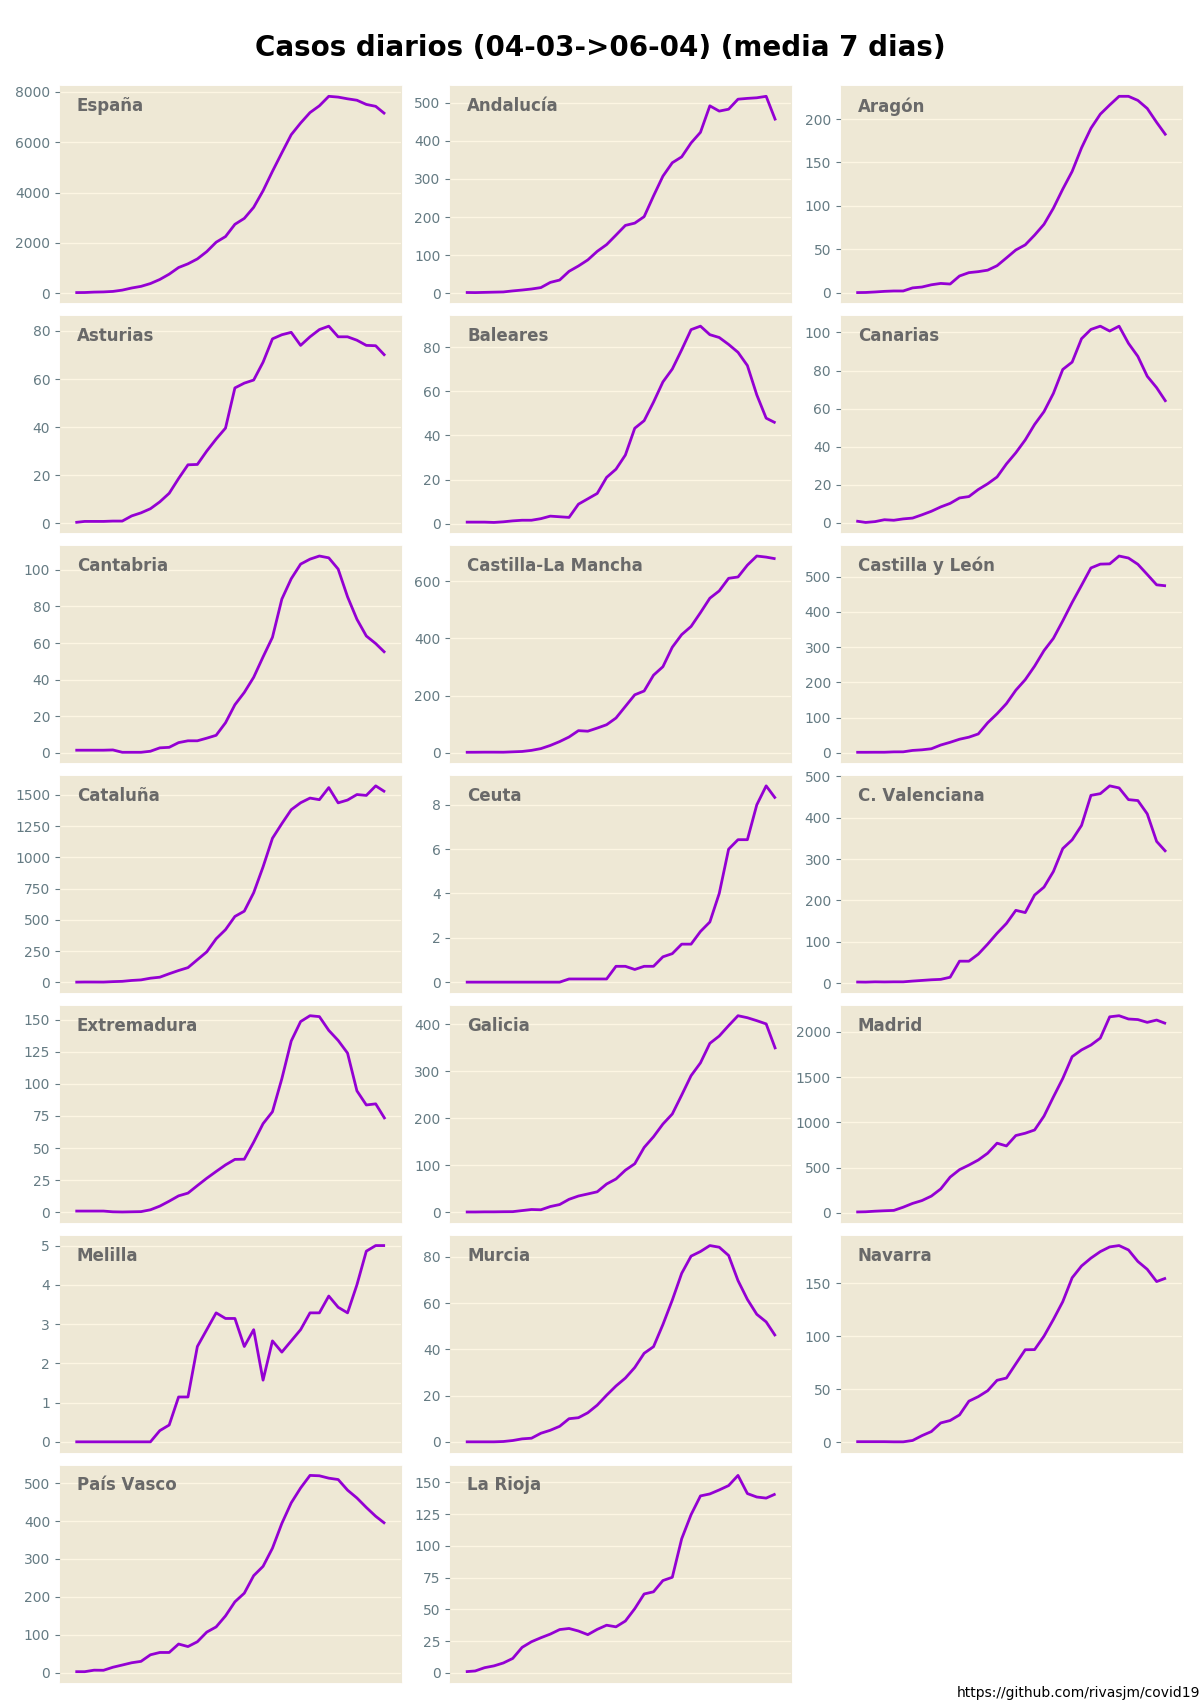
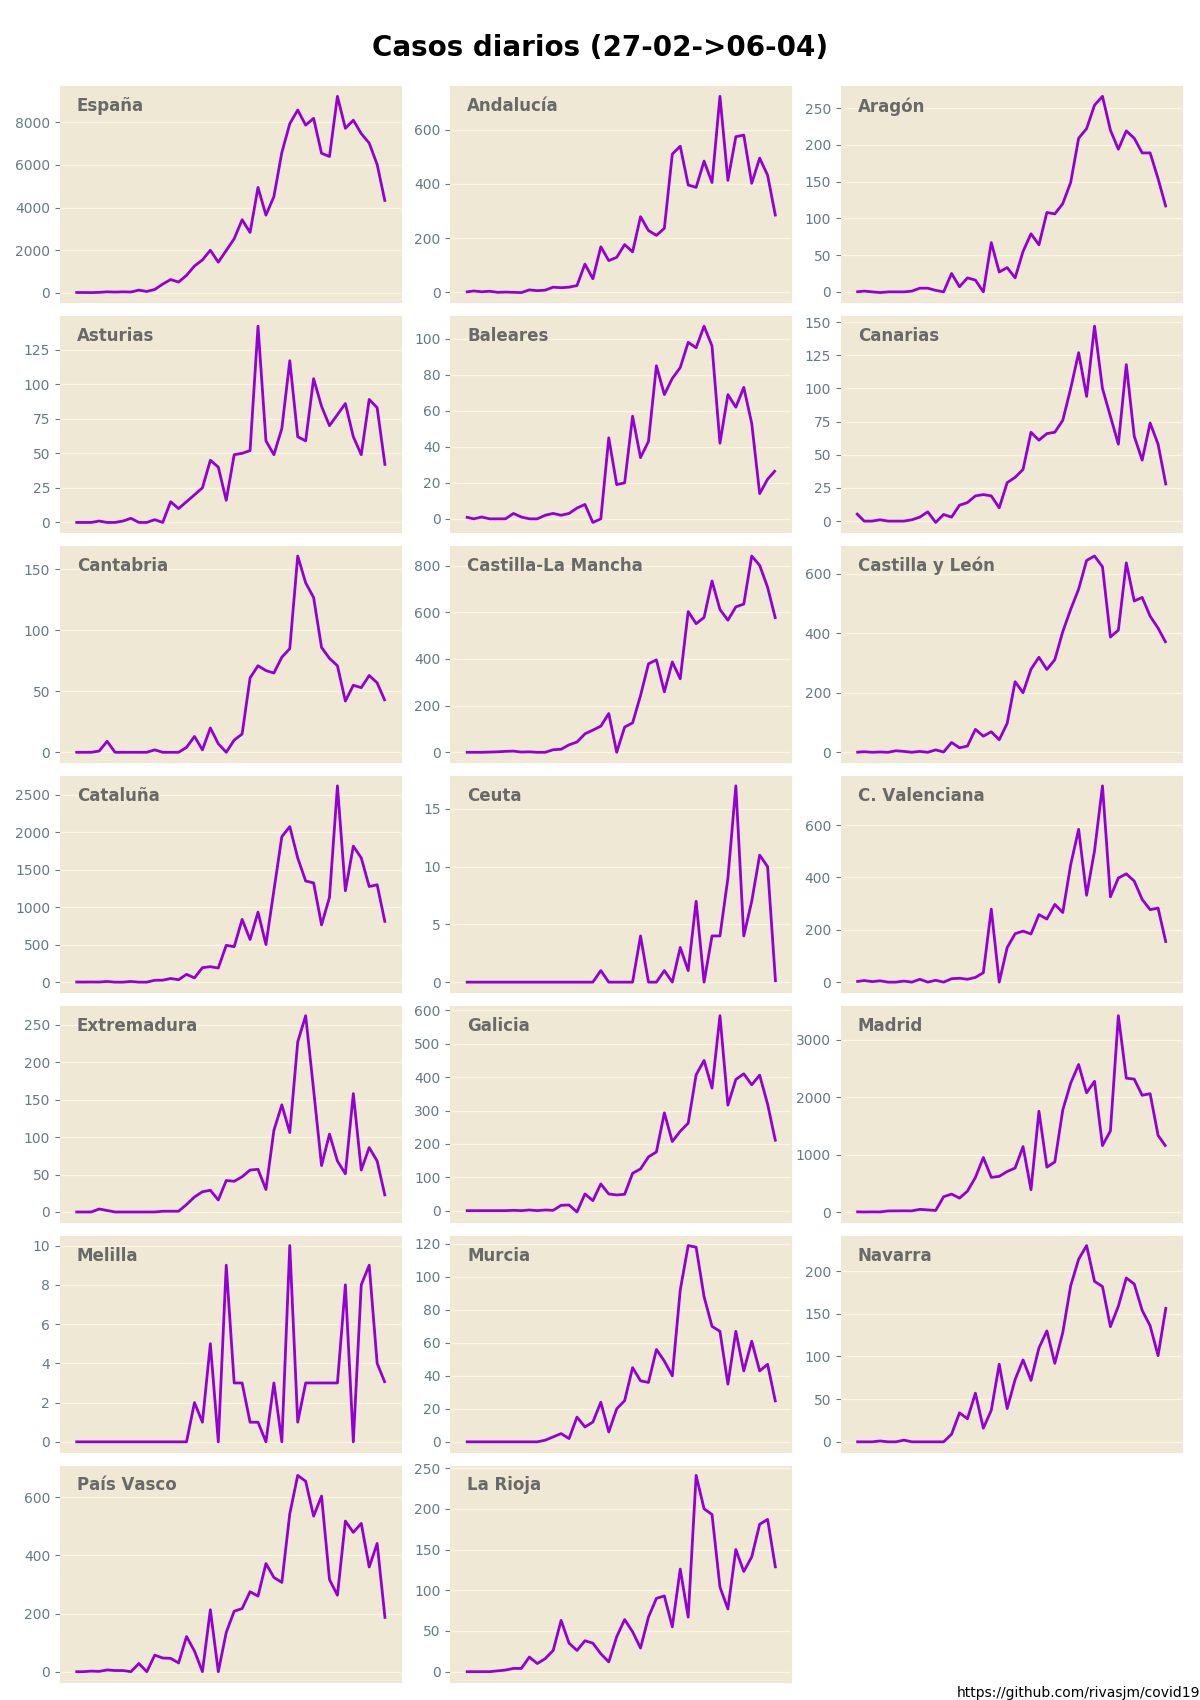
update

diff --git a/spain_charts.py b/spain_charts.py
@@ -141,7 +141,8 @@ if __name__ == '__main__':
 
     plt.style.use('Solarize_Light2')  # ft like style
     grid(Data.CASOS, "casos_diarios_per_capita.png", 7, 3, sizex=12, sizey=17, incremental=True, per_capita=True, avg_window=7, overview=True)
-    grid(Data.CASOS, "casos_diarios.png", 7, 3, sizex=12, sizey=17, incremental=True, per_capita=False, avg_window=7)
+    grid(Data.CASOS, "casos_diarios.png", 7, 3, sizex=12, sizey=17, incremental=True, per_capita=False)
+    grid(Data.CASOS, "casos_diarios_media.png", 7, 3, sizex=12, sizey=17, incremental=True, per_capita=False, avg_window=7)
     grid(Data.FALLECIDOS, "fallecidos_diarios.png", 7, 3, sizex=12, sizey=17, incremental=True, per_capita=False, avg_window=7)
     grid(Data.UCI, "uci_diarios.png", 7, 3, sizex=12, sizey=17, incremental=True, per_capita=False, avg_window=7)
     grid(Data.CASOS, "casos_per_capita.png", 7, 3, sizex=12, sizey=17, incremental=False, per_capita=True, overview=True)

diff --git a/README.md b/README.md
@@ -5,6 +5,8 @@ Data from https://github.com/datadista/datasets
 ![overview.png](overview.png)
 ![casos_diarios_per_capita.png](casos_diarios_per_capita.png)
 ![casos_diarios.png](casos_diarios.png)
+![casos_diarios_media.png](casos_diarios_media.png)
 ![fallecidos_diarios.png](fallecidos_diarios.png)
 ![uci_diarios.png](uci_diarios.png)
 ![casos_per_capita.png](casos_per_capita.png)
+![casos.png](casos.png)
